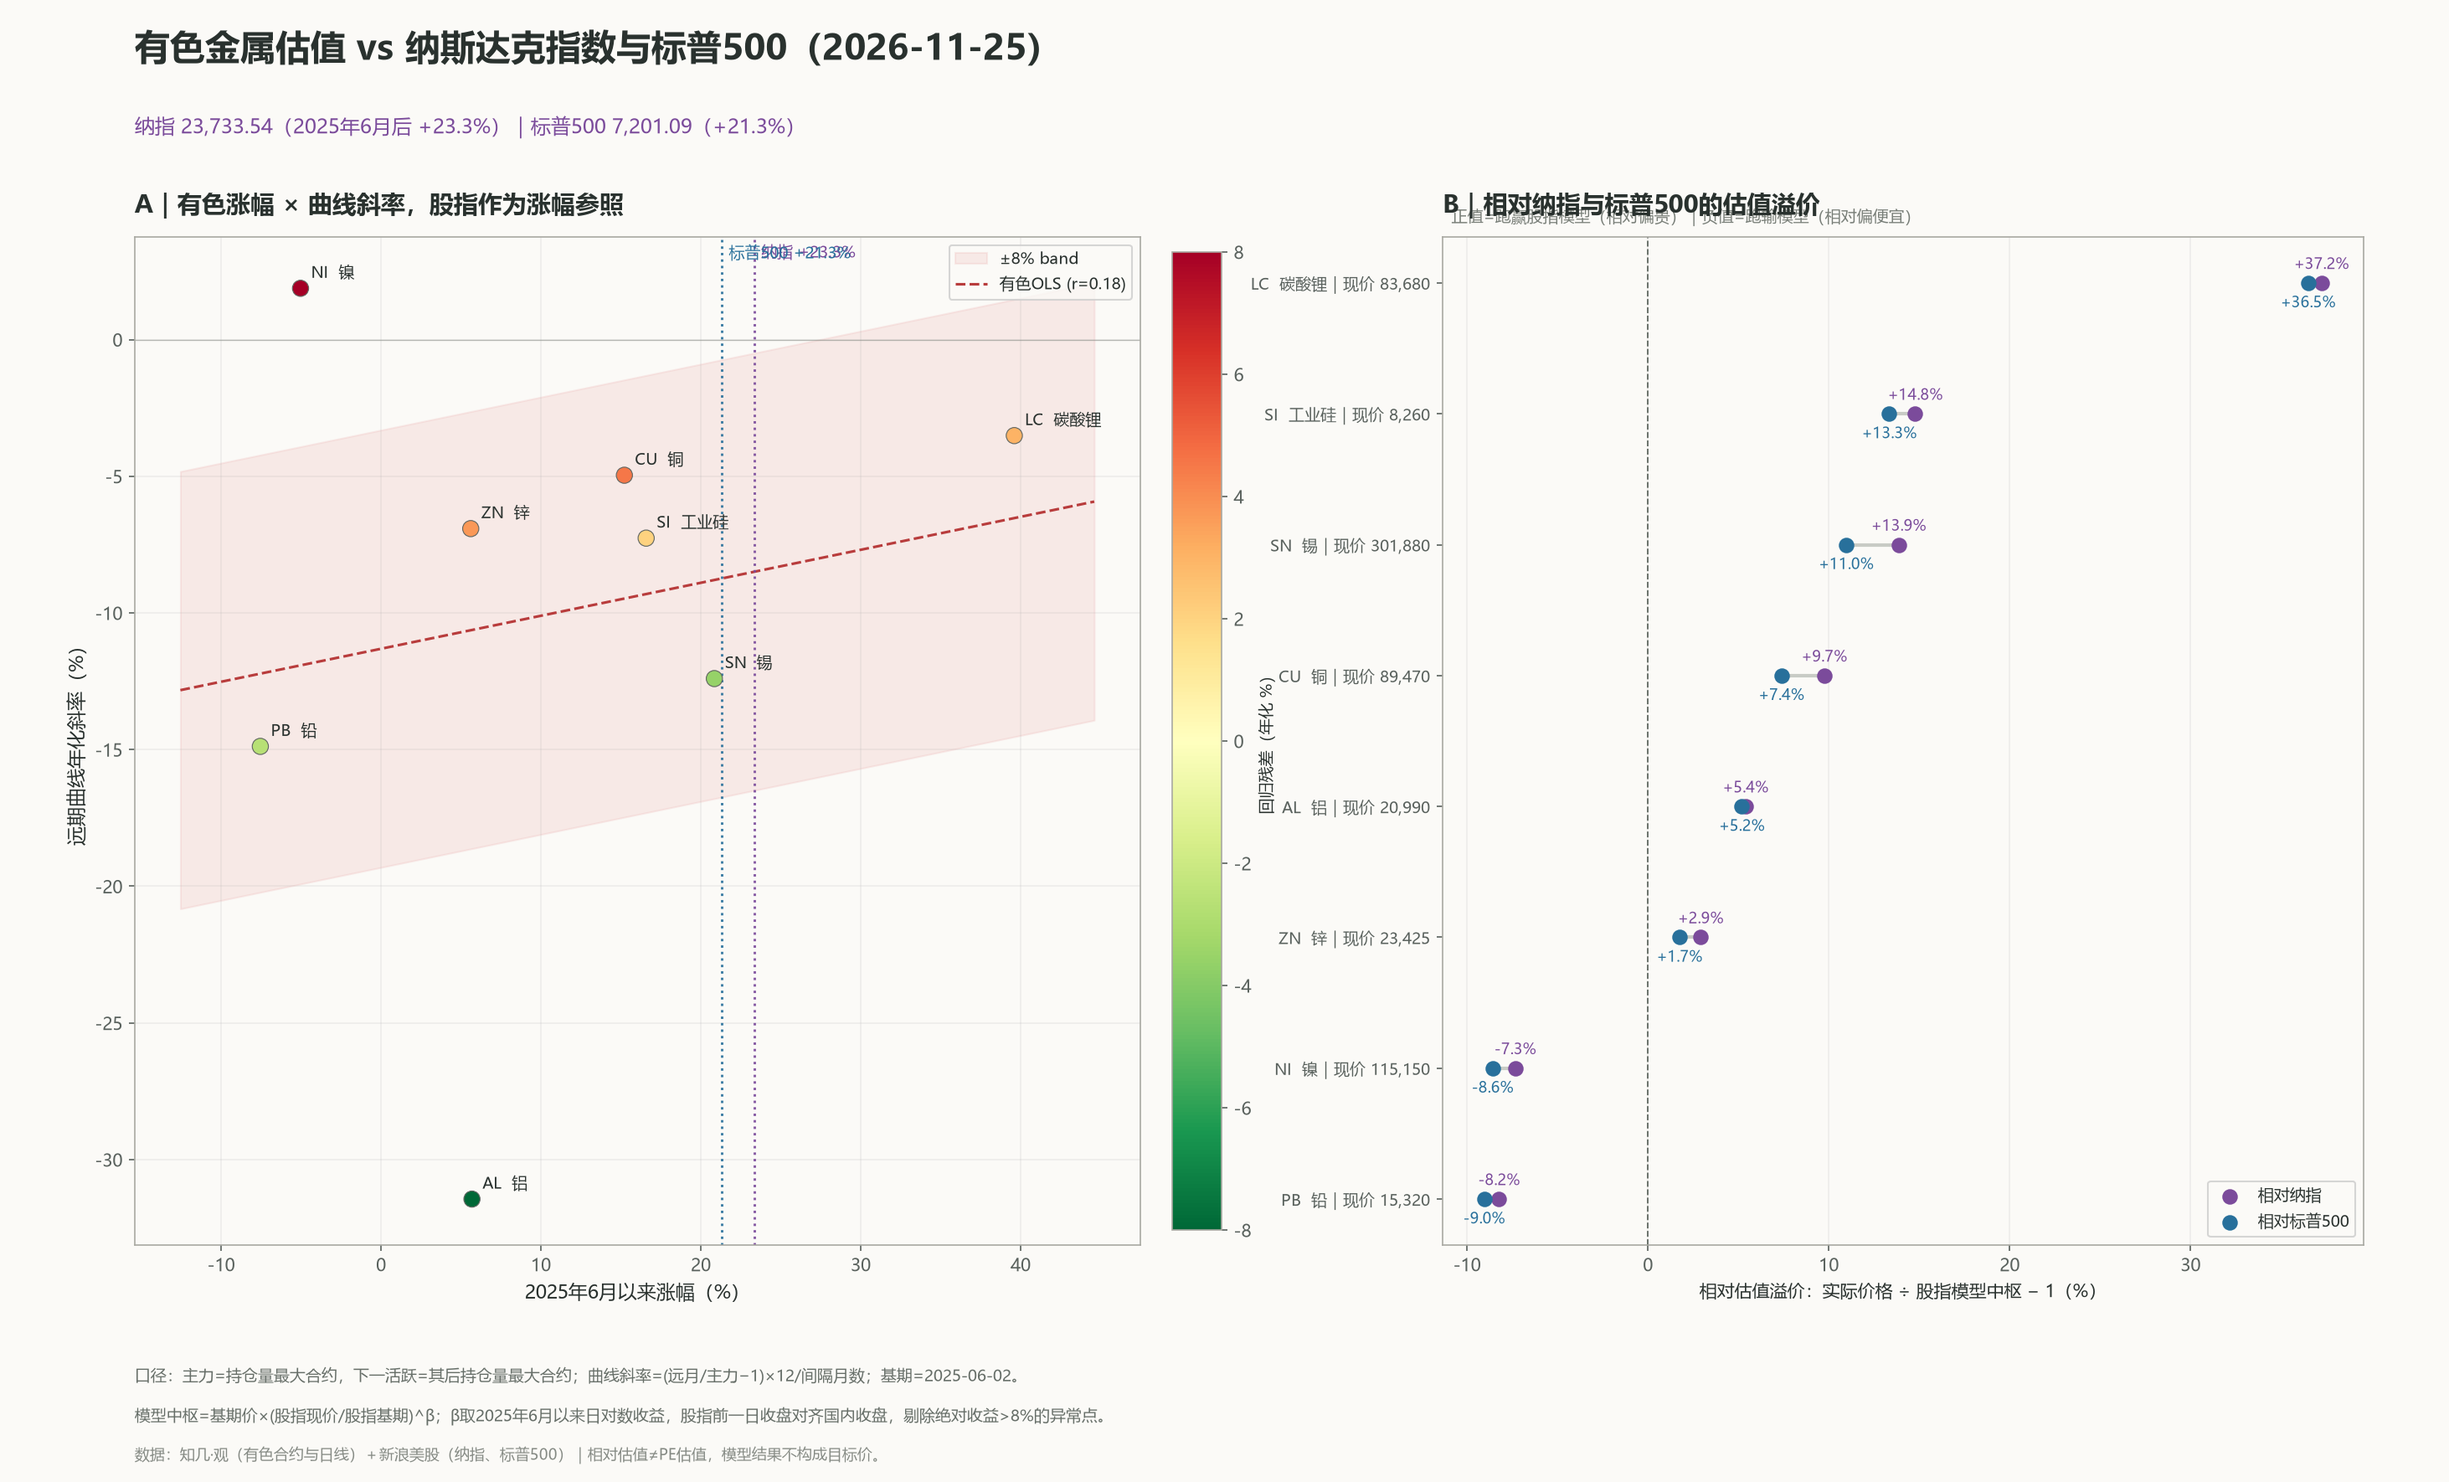
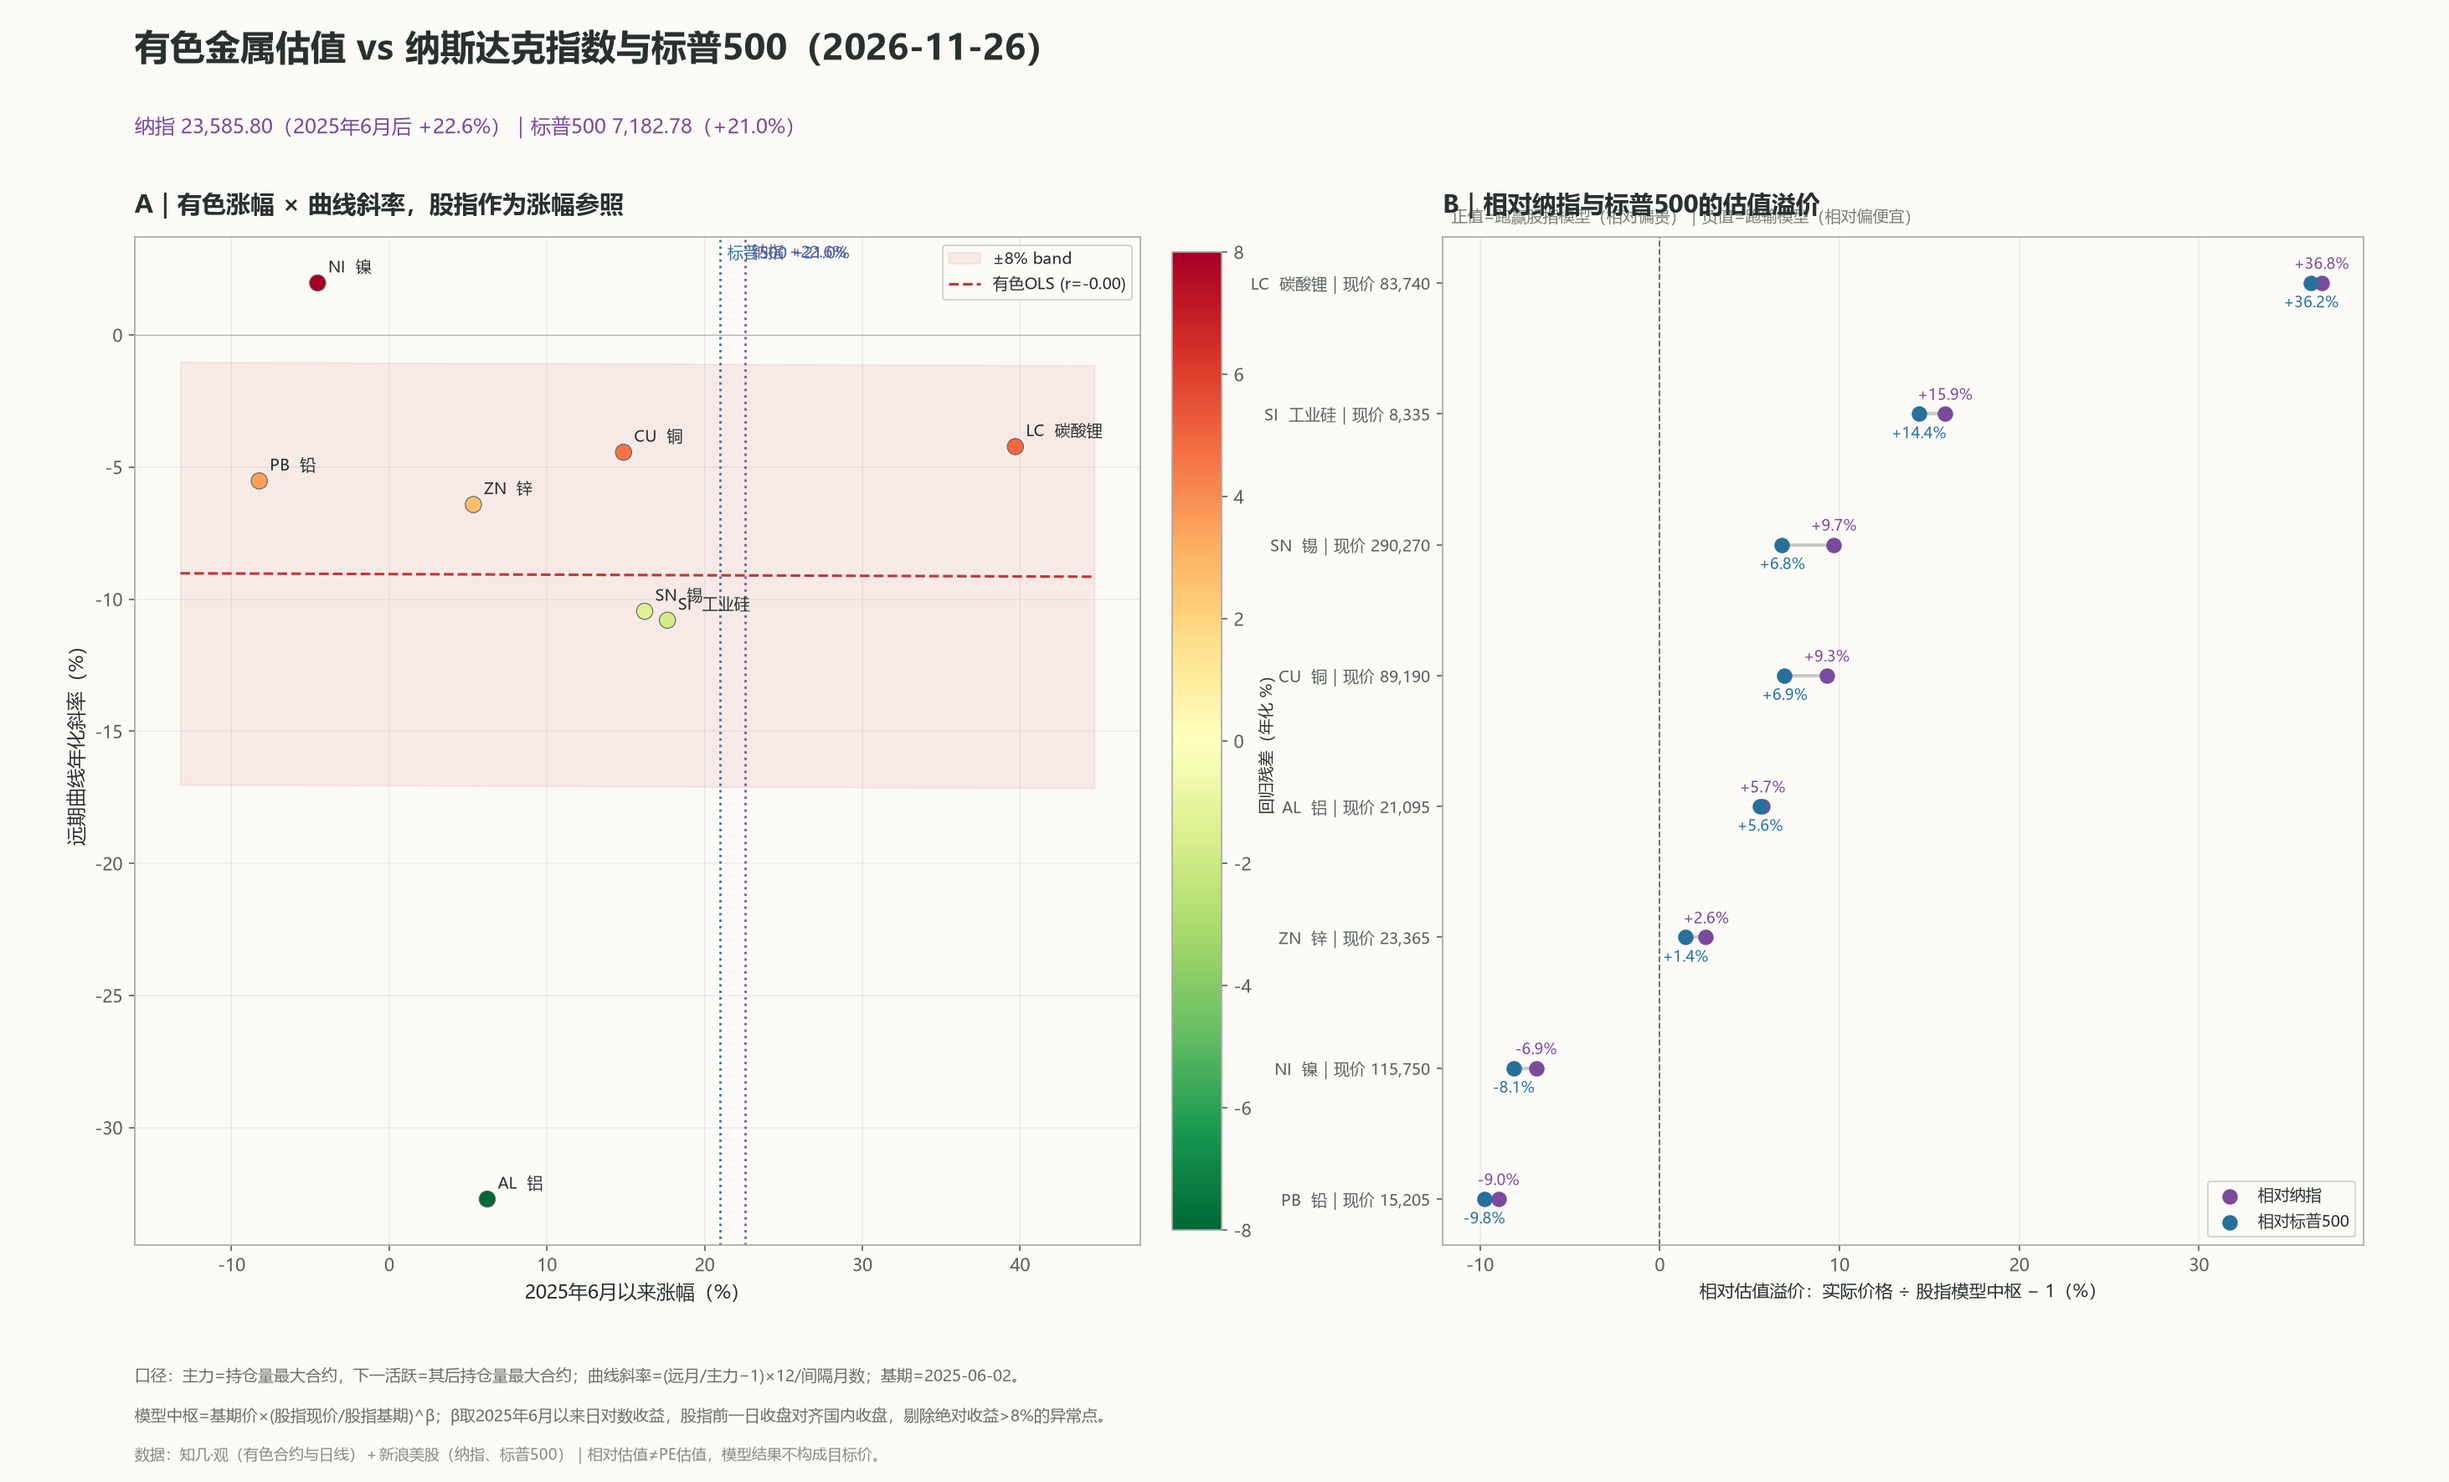
Update metals equity valuation 2026-11-26

diff --git a/valuation/index.html b/valuation/index.html
@@ -1,3 +1,3 @@
 <!doctype html><html lang='zh-CN'><head><meta charset='utf-8'><meta name='viewport' content='width=device-width,initial-scale=1'><title>有色估值 vs 纳指与标普500</title><style>
 body{margin:0;background:#f5f1e8;color:#26332e;font:14px/1.65 -apple-system,BlinkMacSystemFont,'Segoe UI','Microsoft YaHei',sans-serif}main{max-width:1180px;margin:auto;padding:42px 22px}h1{font-family:Georgia,'Songti SC',serif;font-size:34px;margin:0 0 10px}.sub{color:#7b4b9b;font-size:16px}.note{color:#746f65;font-size:12px;margin:12px 0 24px}img{display:block;width:100%;height:auto;background:#fbfaf7;border:1px solid #d8d1c3}.actions{margin:18px 0 28px;display:flex;gap:16px}a{color:#a34f39}table{width:100%;border-collapse:collapse;background:#fbf9f3;font-size:12px}th,td{padding:9px 8px;border-bottom:1px solid #ddd5c7;text-align:right;white-space:nowrap}th:first-child,td:first-child{text-align:left}.pos{color:#a34f39}.neg{color:#28709b}footer{font-size:11px;color:#746f65;margin-top:24px}@media(max-width:700px){.table{overflow-x:auto}h1{font-size:27px}}
-</style></head><body><main><h1>有色金属估值 vs 纳斯达克指数与标普500</h1><div class='sub'>纳指 23,733.54（2025年6月后 +23.3%）｜标普500 7,201.09（+21.3%）</div><div class='note'>基期：国内 2025-06-03、美股 2025-06-02｜最新：2026-11-25｜相对估值不是 PE，模型结果不构成目标价。</div><img src='chart.png' alt='有色金属与纳斯达克指数和标普500估值对照图'><div class='actions'><a href='data.csv' download>下载完整 CSV ↓</a><a href='../'>返回书桌 ↗</a></div><div class='table'><table><thead><tr><th>品种</th><th>当前主力</th><th>6月后涨幅</th><th>相对纳指</th><th>相对标普</th><th>远月年化斜率</th></tr></thead><tbody><tr><td><b>CU</b> 铜</td><td>89,470</td><td>+15.2%</td><td class="pos">+9.7%</td><td class="pos">+7.4%</td><td>-5.0%</td></tr><tr><td><b>AL</b> 铝</td><td>20,990</td><td>+5.7%</td><td class="pos">+5.4%</td><td class="pos">+5.2%</td><td>-31.4%</td></tr><tr><td><b>ZN</b> 锌</td><td>23,425</td><td>+5.6%</td><td class="pos">+2.9%</td><td class="pos">+1.7%</td><td>-6.9%</td></tr><tr><td><b>PB</b> 铅</td><td>15,320</td><td>-7.5%</td><td class="neg">-8.2%</td><td class="neg">-9.0%</td><td>-14.9%</td></tr><tr><td><b>NI</b> 镍</td><td>115,150</td><td>-5.0%</td><td class="neg">-7.3%</td><td class="neg">-8.6%</td><td>+1.9%</td></tr><tr><td><b>SN</b> 锡</td><td>301,880</td><td>+20.8%</td><td class="pos">+13.9%</td><td class="pos">+11.0%</td><td>-12.4%</td></tr><tr><td><b>LC</b> 碳酸锂</td><td>83,680</td><td>+39.6%</td><td class="pos">+37.2%</td><td class="pos">+36.5%</td><td>-3.5%</td></tr><tr><td><b>SI</b> 工业硅</td><td>8,260</td><td>+16.6%</td><td class="pos">+14.8%</td><td class="pos">+13.3%</td><td>-7.3%</td></tr></tbody></table></div><footer>数据：知几·观 + 新浪美股。模型中枢=基期价×(股指现价/基期)^β；β自2025年6月起，股指前一日收盘对齐国内收盘，剔除绝对收益>8%的异常点。每日自动更新。</footer></main></body></html>
+</style></head><body><main><h1>有色金属估值 vs 纳斯达克指数与标普500</h1><div class='sub'>纳指 23,585.80（2025年6月后 +22.6%）｜标普500 7,182.78（+21.0%）</div><div class='note'>基期：国内 2025-06-03、美股 2025-06-02｜最新：2026-11-26｜相对估值不是 PE，模型结果不构成目标价。</div><img src='chart.png' alt='有色金属与纳斯达克指数和标普500估值对照图'><div class='actions'><a href='data.csv' download>下载完整 CSV ↓</a><a href='../'>返回书桌 ↗</a></div><div class='table'><table><thead><tr><th>品种</th><th>当前主力</th><th>6月后涨幅</th><th>相对纳指</th><th>相对标普</th><th>远月年化斜率</th></tr></thead><tbody><tr><td><b>CU</b> 铜</td><td>89,190</td><td>+14.9%</td><td class="pos">+9.3%</td><td class="pos">+6.9%</td><td>-4.4%</td></tr><tr><td><b>AL</b> 铝</td><td>21,095</td><td>+6.2%</td><td class="pos">+5.7%</td><td class="pos">+5.6%</td><td>-32.7%</td></tr><tr><td><b>ZN</b> 锌</td><td>23,365</td><td>+5.3%</td><td class="pos">+2.6%</td><td class="pos">+1.4%</td><td>-6.4%</td></tr><tr><td><b>PB</b> 铅</td><td>15,205</td><td>-8.2%</td><td class="neg">-9.0%</td><td class="neg">-9.8%</td><td>-5.5%</td></tr><tr><td><b>NI</b> 镍</td><td>115,750</td><td>-4.5%</td><td class="neg">-6.9%</td><td class="neg">-8.1%</td><td>+2.0%</td></tr><tr><td><b>SN</b> 锡</td><td>290,270</td><td>+16.2%</td><td class="pos">+9.7%</td><td class="pos">+6.8%</td><td>-10.5%</td></tr><tr><td><b>LC</b> 碳酸锂</td><td>83,740</td><td>+39.7%</td><td class="pos">+36.8%</td><td class="pos">+36.2%</td><td>-4.2%</td></tr><tr><td><b>SI</b> 工业硅</td><td>8,335</td><td>+17.6%</td><td class="pos">+15.9%</td><td class="pos">+14.4%</td><td>-10.8%</td></tr></tbody></table></div><footer>数据：知几·观 + 新浪美股。模型中枢=基期价×(股指现价/基期)^β；β自2025年6月起，股指前一日收盘对齐国内收盘，剔除绝对收益>8%的异常点。每日自动更新。</footer></main></body></html>
